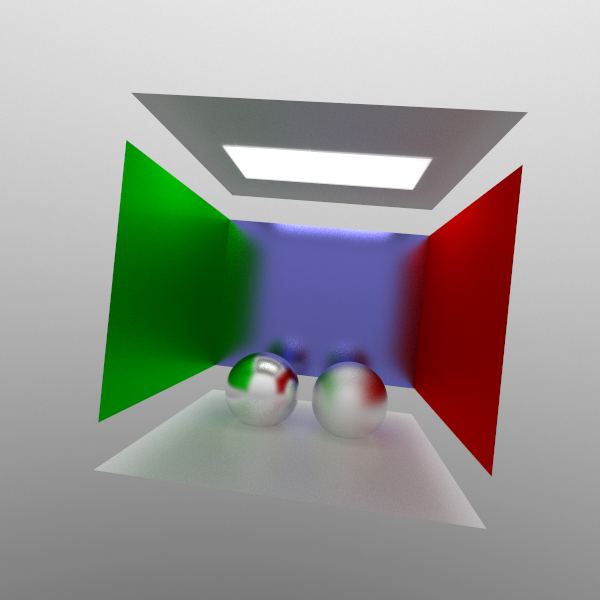
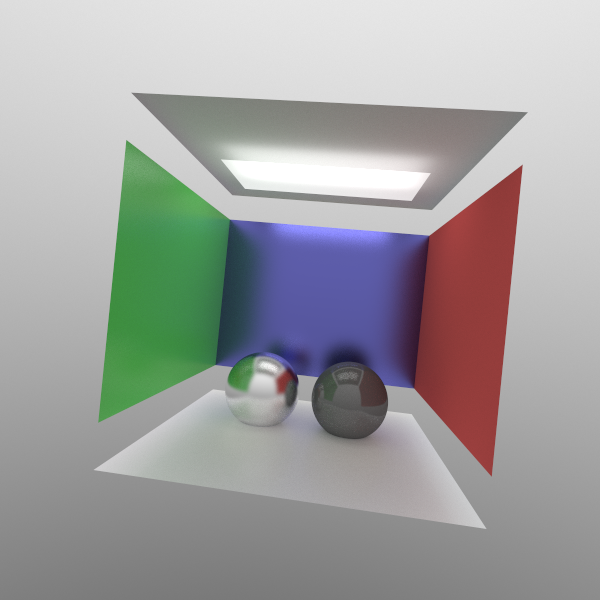
added support for different materials (emissive, diffuse, metallic, dielectric) and improved bidirectional consistency

diff --git a/ray.cpp b/ray.cpp
@@ -1,4 +1,5 @@
 #pragma once
+#pragma GCC diagnostic ignored "-Wmissing-field-initializers"
 
 #include <initializer_list>
 
@@ -8,9 +9,44 @@ struct ray{
 };
 
 struct material{
-	bool light = false;
-	color c;
-	double smooth = 1.0;
+	static const short LIGHT = 1, DIFFUSE = 2, SPECULAR = 4;
+
+	short T;
+	color light_color, diffuse_color, specular_color;
+	double specular_fract;
+	double smooth;
+
+	static material diffuse(color c){
+		return {
+			.T = DIFFUSE,
+			.diffuse_color = c,
+		};
+	}
+
+	static material metal(color c, double smooth){
+		return {
+			.T = SPECULAR,
+			.specular_color = c,
+			.smooth = smooth,
+		};
+	}
+
+	static material dielectric(color c, double specular, double smooth){
+		return {
+			.T = DIFFUSE | SPECULAR,
+			.diffuse_color = c,
+			.specular_color = {1, 1, 1},
+			.specular_fract = specular,
+			.smooth = smooth,
+		};
+	}
+
+	static material light(color c){
+		return {
+			.T = LIGHT,
+			.light_color = c,
+		};
+	}
 };
 
 vec cosine_lobe(double m, vec n){
@@ -43,14 +79,48 @@ struct touch{
 	void scatter(ray &in){
 		in.p = p;
 
-		vec surface = cosine_lobe(m->smooth, n);
-		in.d = in.d - surface*2.0*in.d.dot(surface);
-		if(in.d.dot(n) < 0.0) in.d = in.d - n*2.0*in.d.dot(n);
+		bool s_diffuse = 0, s_specular = 0;
+
+		if((m->T & material::DIFFUSE) && (m->T & material::SPECULAR)){
+			double x = rng::base();
+			if(x > m->specular_fract) s_diffuse = 1;
+			else s_specular = 1;
+
+		}else if(m->T & material::DIFFUSE) s_diffuse = 1;
+		else if(m->T & material::SPECULAR) s_specular = 1;
+
+		if(s_diffuse){
+			in.c *= m->diffuse_color;
+			in.d = (rng::uniform()+n).norm();
+		}
+
+		if(s_specular){
+			in.c *= m->specular_color;
+			vec surface = cosine_lobe(m->smooth, n);
+			in.d = in.d - surface*2.0*in.d.dot(surface);
+			if(in.d.dot(n) < 0.0) in.d = in.d - n*2.0*in.d.dot(n);
+		}
 	}
 
-	double scatter(vec in, vec out){
-		vec s1 = (out-in).norm(), s2 = (out-n*2.0*out.dot(n)-in).norm();
-		return cosine_dist(m->smooth, n, s1) + cosine_dist(m->smooth, n, s2);
+	color scatter(vec in, vec out){
+		if((m->T & material::DIFFUSE) && (m->T & material::SPECULAR)){
+			vec s1 = (out-in).norm(), s2 = (out-n*2.0*out.dot(n)-in).norm();
+			double fract = cosine_dist(m->smooth, n, s1) + cosine_dist(m->smooth, n, s2);
+			return lerp(
+				m->diffuse_color*out.dot(n)*2.0*M_PI,
+				m->specular_color*fract * std::min(2.0, 0.5 / -in.dot(n)),
+				m->specular_fract);
+
+		}else if(m->T & material::DIFFUSE){
+			return m->diffuse_color*out.dot(n)*2.0*M_PI;
+
+		}else if(m->T & material::SPECULAR){
+			vec s1 = (out-in).norm(), s2 = (out-n*2.0*out.dot(n)-in).norm();
+			double fract = cosine_dist(m->smooth, n, s1) + cosine_dist(m->smooth, n, s2);
+			return m->specular_color*fract * std::min(3.0, 0.5 / -in.dot(n));
+		}
+
+		return m->light_color;
 	}
 };
 

diff --git a/scene.cpp b/scene.cpp
@@ -13,6 +13,11 @@ void setup_camera(){
 	camera.spp = 16;
 	camera.sync = 2;
 	camera.bounces = 5;
+
+	camera.spp = 64;
+	camera.sync = 8;
+
+	camera.spp = 256;
 }
 
 color sky(vec d){
@@ -30,9 +35,8 @@ void setup_scene(){
 			.y = {0, 1, 0},
 			.z = {0, 0, 1},
 		},
-		.m = {
-			.c = {1, 1, 1},
-		},
+		//.m = material::diffuse({1, 1, 1}),
+		.m = material::metal({1, 1, 1}, 0),
 		.w = 1, .l = 1,
 	});
 
@@ -43,9 +47,7 @@ void setup_scene(){
 			.y = {0, -1, 0},
 			.z = {0, 0, 1},
 		},
-		.m = {
-			.c = {1, 1, 1},
-		},
+		.m = material::diffuse({1, 1, 1}),
 		.w = 1, .l = 1,
 	});
 
@@ -56,10 +58,7 @@ void setup_scene(){
 			.y = {1, 0, 0},
 			.z = {0, 1, 0},
 		},
-		.m = {
-			.c = {0, 0.75, 0},
-			.smooth = 10,
-		},
+		.m = material::dielectric({0.1, 0.75, 0.1}, 0.1, 300),
 		.w = 1, .l = L,
 	});
 
@@ -70,10 +69,7 @@ void setup_scene(){
 			.y = {0, 0, -1},
 			.z = {0, 1, 0},
 		},
-		.m = {
-			.c = {0.2, 0.2, 0.75},
-			.smooth = 500,
-		},
+		.m = material::metal({0.2, 0.2, 0.75}, 500),
 		.w = 1, .l = L,
 	});
 
@@ -84,33 +80,25 @@ void setup_scene(){
 			.y = {-1, 0, 0},
 			.z = {0, 1, 0},
 		},
-		.m = {
-			.c = {0.75, 0, 0},
-		},
+		.m = material::diffuse({0.75, 0.1, 0.1}),
 		.w = 1, .l = L,
 	});
 
-	// smooth metal ball
+	// smoothed metal ball
 	spheres.push_back({
 		.t = {
 			.p = {-0.35, -0.75, 0.2},
 		},
-		.m = {
-			.c = {.9, .9, .9},
-			.smooth = 300,
-		},
+		.m = material::metal({.9, .9, .9}, 300),
 		.r = 0.3,
 	});
 
-	// rough metal ball
+	// dark dielectric ball
 	spheres.push_back({
 		.t = {
 			.p = {0.35, -0.75, 0.2},
 		},
-		.m = {
-			.c = {.9, .9, .9},
-			.smooth = 25,
-		},
+		.m = material::dielectric({.1, .1, .1}, 0.1, 5000),
 		.r = 0.3,
 	});
 
@@ -119,20 +107,17 @@ void setup_scene(){
 	/*
 	rects.push_back({
 		.t = {
-			.p = {0, .99, 0},
+			.p = {0, .9, 0},
 			.y = {0, -1, 0},
 		},
-		.m = {
-			.light = true,
-			.c = {2, 2, 2},
-		},
+		.m = material::light({1, 1, 1}),
 		.w = 0.7, .l = 0.35,
 	});
 	*/
 
 	simple_light({
 		0.7 * (rng::base()*2.0-1.0),
-		0.99,
+		0.9,
 		0.35 * (rng::base()*2.0-1.0),
 	}, {1,1,1});
 }

diff --git a/main.cpp b/main.cpp
@@ -95,23 +95,22 @@ void render(int id){
 	}
 
 	auto now = std::chrono::high_resolution_clock::now();
-	std::chrono::duration<double> duration = now - start;
-	std::cout << "thread " << id+1 << " finished in "
-		<< std::floor(duration.count()*1e3)/1e3 << "s\n";
+	double duration = ((std::chrono::duration<double>) (now - start)).count();
+	std::cout << "thread " << id+1 << " finished in ";
+	if(duration > 60.0) std::cout << std::floor(duration / 60.0) << 'm';
+	std::cout << std::floor(std::fmod(duration, 60.0)*1e3)/1e3 << "s\n";
 }
 
 void backward_trace(buffer &buf, int x, int y){
 	ray r; touch t;
-	bool smooth = 1;
 
 	camera.get(x+rng::base(), y+rng::base(), r);
 
 	for(int j=0; j<camera.bounces; ++j){
 		if(hit(r, t, 1)){
-			r.c *= t.m -> c;
-			if(t.m -> smooth < 200) smooth = 0;
 
-			if(t.m -> light){
+			if(t.m->T & material::LIGHT){
+				r.c *= t.m->light_color;
 				camera.set(buf, x, y, r.c);
 				break;
 			}
@@ -119,7 +118,7 @@ void backward_trace(buffer &buf, int x, int y){
 			t.scatter(r);
 
 		}else{
-			r.c *= sky(r.d) * (smooth ? 1 : 0.5 + rng::base());
+			r.c *= sky(r.d) * (j ? 1 : 0.5 + rng::base());
 			camera.set(buf, x, y, r.c);
 			break;
 		}
@@ -142,12 +141,10 @@ void forward_trace(buffer &buf, const light &l){
 
 		for(int j=0; j<camera.bounces; ++j){
 			if(hit(r, t)){
-				r.c *= t.m -> c;
-
 				ray R; touch T;
 				R.p = t.p; R.d = (camera.p-t.p).norm();
 				if(!hit(R, T) || T.d*T.d > camera.p.distsq(R.p)){
-					double E = factor*t.scatter(r.d, R.d)/camera.p.distsq(R.p);
+					color E = t.scatter(r.d, R.d)*factor/camera.p.distsq(R.p);
 					camera.set(buf, R.p, r.c*E);
 					++x;
 				}

diff --git a/camera.cpp b/camera.cpp
@@ -85,7 +85,7 @@ struct _target{
 		double exp2 = camera.threads * camera.spp * progress / camera.exposure;
 
 		auto bake = [&] (double v){
-			return 255.0 * pow(v/exp2, 1.0/camera.gamma);
+			return 255.0 * pow(v, 1.0/camera.gamma);
 		};
 
 		auto c = [&] (double v) {
@@ -94,9 +94,9 @@ struct _target{
 		};
 
 		for(int i=0; i<camera.w*camera.h; ++i){
-			image[i*3+2] = c(data[i].x);
-			image[i*3+1] = c(data[i].y);
-			image[i*3] = c(data[i].z);
+			image[i*3+2] = c(data[i].x/exp2);
+			image[i*3+1] = c(data[i].y/exp2);
+			image[i*3] = c(data[i].z/exp2);
 		}
 
 		writeBMP("image.bmp", image, camera.w, camera.h);

diff --git a/surface.cpp b/surface.cpp
@@ -116,10 +116,10 @@ bool hit(ray &r, touch &t, bool use_light = false){
 	touch alt; t.d = 1e18;
 	bool res = 0;
 
-	for(const sphere &s : spheres) if(use_light || !s.m.light)
+	for(const sphere &s : spheres) if(use_light || !(s.m.T & material::LIGHT))
 		if(s.hit(r, alt) && alt.d < t.d) t = alt, res |= 1;
 
-	for(const rect &s : rects) if(use_light || !s.m.light)
+	for(const rect &s : rects) if(use_light || !(s.m.T & material::LIGHT))
 		if(s.hit(r, alt) && alt.d < t.d) t = alt, res |= 1;
 
 	return res;

diff --git a/vec.cpp b/vec.cpp
@@ -58,14 +58,6 @@ struct vec{
 		};
 	}
 
-	vec lerp(const vec o, double v){
-		return {
-			o.x*v + x*(1.-v),
-			o.y*v + y*(1.-v),
-			o.z*v + z*(1.-v),
-		};
-	}
-
 	double distsq(const vec o) const{
 		return (*this-o).magsq();
 	}
@@ -74,6 +66,14 @@ struct vec{
 		return (*this-o).mag();
 	}
 };
+
+vec lerp(const vec a, const vec b, double v){
+	return {
+		b.x*v + a.x*(1.-v),
+		b.y*v + a.y*(1.-v),
+		b.z*v + a.z*(1.-v),
+	};
+}
 
 using color = vec;
 
